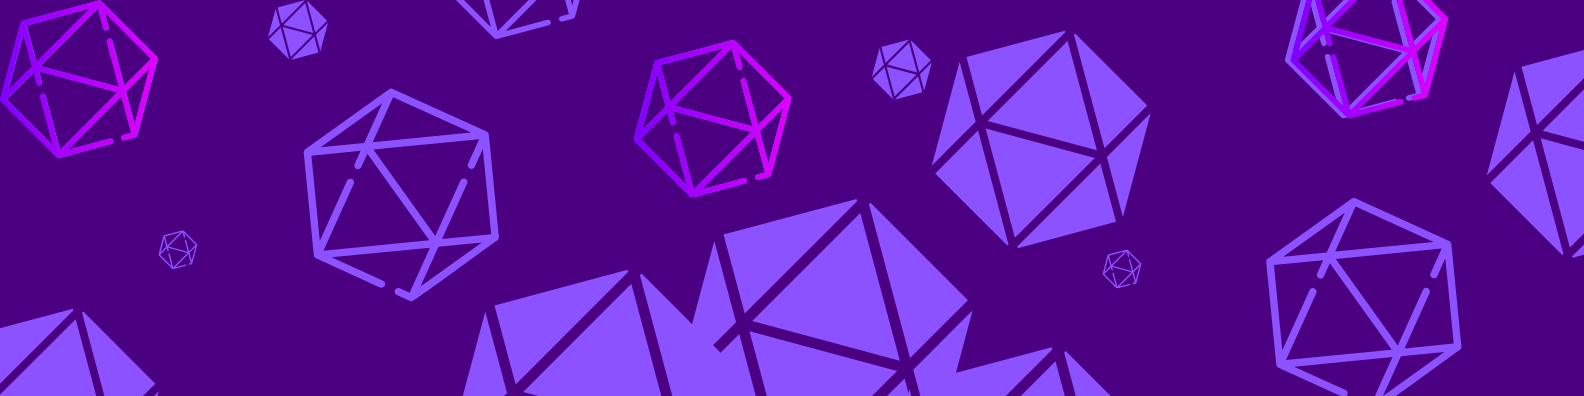
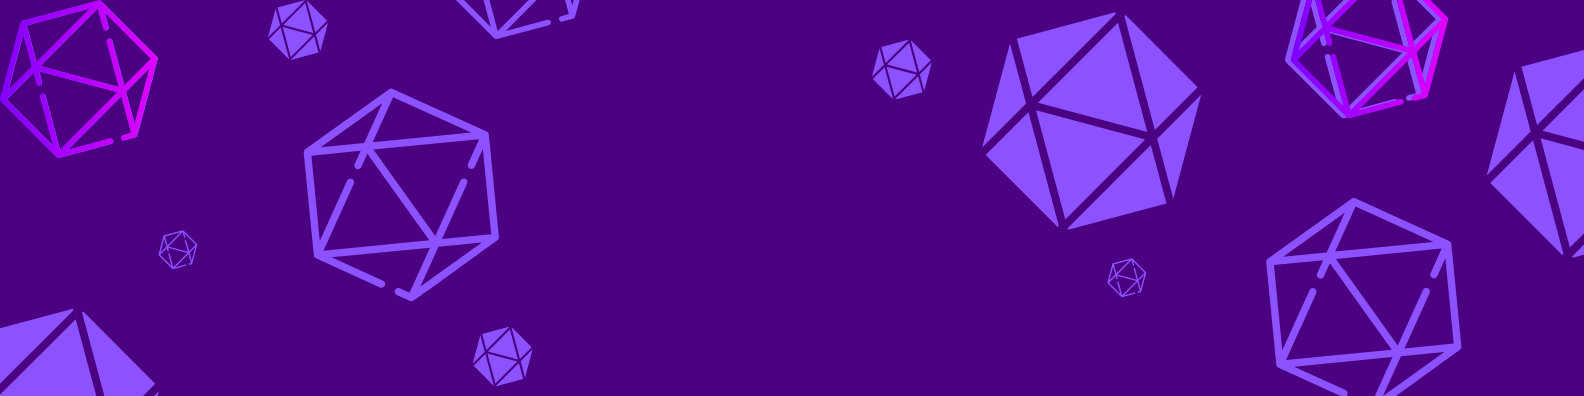
wall

diff --git a/index.html b/index.html
@@ -30,16 +30,10 @@
 
         /* Estilo para a imagem de fundo do cabeçalho */
         .header-bg {
-            background-image: url('imagens/wall.png'); /* Placeholder para a capa */
+            background-image: url('imagens/wall.png');
             background-size: cover;
             background-position: center;
             background-repeat: no-repeat;
-        }
-        /* Media query para a imagem de fundo em telas maiores */
-        @media (min-width: 768px) {
-             .header-bg {
-                background-image: url('imagens/wall.png'); /* Placeholder para a capa real */
-             }
         }
         
         /* Estilo para esconder as seções */
@@ -141,10 +135,9 @@
 
     <!-- Seção de Produtos (Página Inicial) -->
     <div id="home-section" class="page-section active">
-        <header class="header-bg relative h-64 md:h-96 flex items-center justify-center p-4">
-            <!-- Overlay para melhorar a legibilidade do texto sobre a imagem -->
-            <div class="absolute inset-0 bg-purple-900-custom bg-opacity-70"></div>
-            <div class="relative z-10 text-center text-white">
+        <header class="header-bg relative h-64 md:h-96 flex flex-col items-center justify-center p-4">
+            <!-- Overlay removido para ver a imagem de fundo claramente -->
+            <div class="relative z-20 text-center text-white">
                 <img src="imagens/logo.png" alt="Logo da Artefatos Geek" class="h-24 md:h-40 mx-auto rounded-lg">
                 <h1 class="text-4xl md:text-6xl font-bold mt-4 drop-shadow-md">Artefatos Geek</h1>
                 <p class="text-xl md:text-2xl mt-2 drop-shadow-md">Seu universo de tecnologia e inovação</p>
